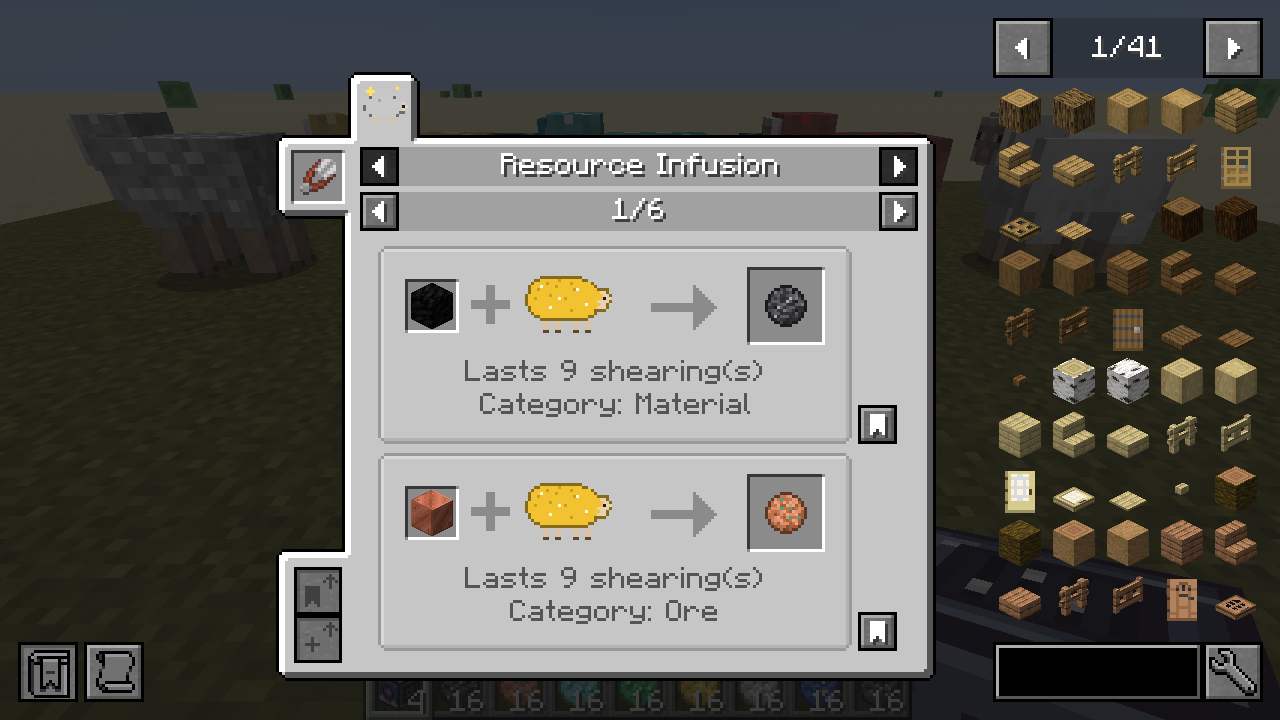
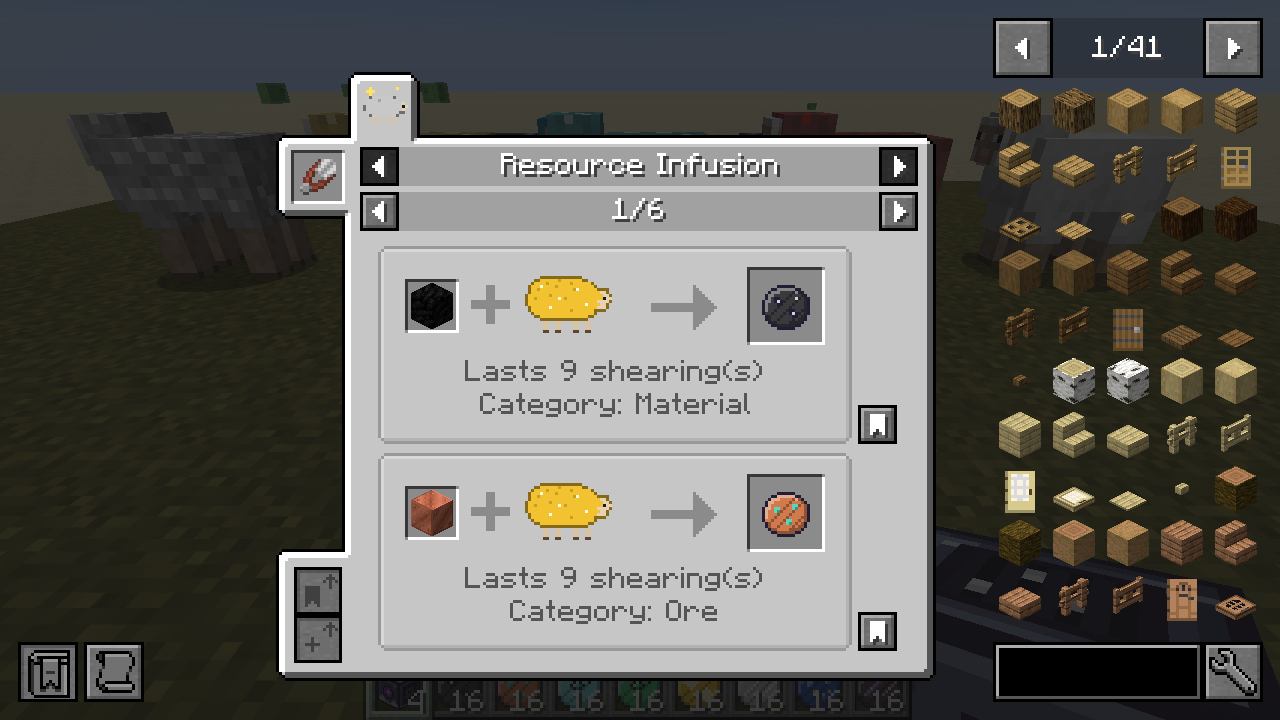
Restyle resource wool items to match the separator's cartoon style
Outlined yarn balls with flat colour, one highlight and one shadow tone,
diagonal yarn wraps and bold per-resource accents; matching fallback
layers for data-pack resources.

Claude-Session: https://claude.ai/code/session_012iurxjF5Am1zCyJTywqAyz

diff --git a/tools/generate_textures.py b/tools/generate_textures.py
@@ -38,161 +38,184 @@ def shade(c, f):
 CLEAR = (0, 0, 0, 0)
 
 # ---------------------------------------------------------------------------
-# Wool item: a fluffy wound skein. Shape map: '.' empty, 'o' outline, 1-4 shade
-# levels (1 = darkest .. 4 = brightest), 'h' highlight. Hand-designed 16x16.
+# Resource wool items (16x16), in the same cartoon style as the Mechanical
+# Separator / Mycelial Power: a thick dark outline, the flat resource colour
+# with one highlight and one shadow tone, yarn-strand arcs, and a chunky
+# per-resource accent stamped on top.
+#   O outline   H highlight   M base colour   S shadow / strand
 # ---------------------------------------------------------------------------
-WOOL_SHAPE = [
-    "................",
-    "......oooo......",
-    "....oo4344oo....",
-    "...o44433444o...",
-    "..o3443344443o..",
-    "..o4332334433o..",
-    ".o344433343343o.",
-    ".o433444332443o.",
-    ".o332343444332o.",
-    ".o244333433432o.",
-    "..o3443323342o..",
-    "..o2334443322o..",
-    "...o22332222o...",
-    "....oo2112oo....",
-    "......oooo......",
-    "................",
-]
+WOOL_OUTLINE = hexc("#231c35")
 
-# Strand lines across the skein (used for "wound yarn" look and resource strands).
-STRANDS = [(4, 4), (5, 5), (6, 6), (7, 7), (8, 8), (9, 9), (10, 10), (11, 11),
-           (6, 3), (7, 4), (8, 5), (9, 6), (10, 7), (11, 8), (12, 9)]
+WOOL_BALL = [
+    "................",
+    ".....OOOOOO.....",
+    "...OOHHHHHHOO...",
+    "..OHHHMMMMSHSO..",
+    ".OHHMMMMMSMMMSO.",
+    ".OHMMMMMSMMMSMSO",
+    "OHHMMMMSMMMSMMSO",
+    "OHMMMMSMMMSMMMSO",
+    "OHMMMSMMMSMMMMSO",
+    "OHMMSMMMSMMMMSSO",
+    "OMMSMMMSMMMMSMSO",
+    ".OSMMMSMMMMSMSO.",
+    ".OSMMSMMMMSMSSO.",
+    "..OSSMMMMSSSSO..",
+    "...OOSSSSSSOO...",
+    ".....OOOOOO.....",
+]
 
 
 def wool_palette(base):
-    """4 shades from dark to light plus outline."""
     return {
-        "o": shade(base, 0.45),
-        "1": shade(base, 0.62),
-        "2": shade(base, 0.78),
-        "3": shade(base, 0.92),
-        "4": mix(base, (255, 255, 255, 255), 0.18),
+        "O": WOOL_OUTLINE,
+        "H": mix(base, (255, 255, 255, 255), 0.38),
+        "M": base,
+        "S": shade(base, 0.68),
     }
 
 
 def draw_wool(base):
     img = Image.new("RGBA", (16, 16), CLEAR)
     pal = wool_palette(base)
-    for y, row in enumerate(WOOL_SHAPE):
+    for y, row in enumerate(WOOL_BALL):
         for x, ch in enumerate(row):
             if ch in pal:
-                c = pal[ch]
-                # Wound-yarn look: diagonal winding lines across the skein.
-                if ch not in "o" and (x + y) % 4 == 0:
-                    c = shade(c, 0.84)
-                elif ch not in "o" and (x - y) % 7 == 0:
-                    c = mix(c, (255, 255, 255, 255), 0.12)
-                img.putpixel((x, y), c)
+                img.putpixel((x, y), pal[ch])
     return img
 
 
 def inside(x, y):
-    return WOOL_SHAPE[y][x] not in ".o"
+    return 0 <= x < 16 and 0 <= y < 16 and WOOL_BALL[y][x] not in ".O"
 
 
 def put(img, x, y, c):
-    if 0 <= x < 16 and 0 <= y < 16 and inside(x, y):
+    if inside(x, y):
         img.putpixel((x, y), c)
 
 
-# Resource definitions for the 12 built-in wool items: base colour + decorator.
-def deco_metal_strands(light, dark):
-    def f(img, rnd):
-        for (x, y) in STRANDS:
-            put(img, x, y, light if (x + y) % 3 else dark)
-        for (x, y) in [(5, 9), (6, 10), (9, 4), (10, 5)]:
-            put(img, x, y, light)
+def stamp(img, ox, oy, rows, pal):
+    """Draws a small character grid at (ox, oy); '.' is skipped, only inside the ball."""
+    for dy, row in enumerate(rows):
+        for dx, ch in enumerate(row):
+            if ch in pal:
+                put(img, ox + dx, oy + dy, pal[ch])
+
+
+WHITE = hexc("#ffffff")
+
+# Chunky accent motifs (A = accent colour, a = accent shadow, G = shine, O = outline)
+GEM = [".O.", "OGO", "OAa", ".O."]
+GEM_BIG = ["..O..", ".OGO.", "OGAaO", ".OaO.", "..O.."]
+STAR = ["..G..", ".GAG.", "GAGAG", ".GAG.", "..G.."]
+DOT = [".A.", "AGA", ".a."]
+CHUNK = ["OO.", "OaO", ".OO"]
+
+
+def deco_strands():
+    """Bright metal threads following the yarn arcs, with glints."""
+    def f(img, pal):
+        for i in range(8):
+            put(img, 10 - i, 3 + i, pal["A"])      # main bright thread
+            put(img, 11 - i, 3 + i, pal["a"])
+        for i in range(6):
+            put(img, 13 - i, 6 + i, pal["A"])      # second thread
+        for (x, y) in [(8, 5), (5, 8), (11, 8), (4, 4)]:
+            put(img, x, y, pal["G"])
     return f
 
 
-def deco_sparkle(spark, glow):
-    def f(img, rnd):
-        for (x, y) in [(5, 5), (10, 4), (11, 9), (6, 10), (8, 7)]:
-            put(img, x, y, spark)
-            for dx, dy in [(1, 0), (-1, 0), (0, 1), (0, -1)]:
-                if rnd.random() < 0.6:
-                    put(img, x + dx, y + dy, glow)
+def deco_sparkles():
+    def f(img, pal):
+        stamp(img, 3, 4, STAR, pal)
+        stamp(img, 8, 8, STAR, pal)
+        put(img, 11, 4, pal["G"])
     return f
 
 
-def deco_crystals(c1, c2, edge):
-    def f(img, rnd):
-        for (x, y) in [(4, 6), (9, 4), (11, 8), (6, 10), (8, 8)]:
-            put(img, x, y, c1)
-            put(img, x + 1, y, c2)
-            put(img, x, y + 1, c2)
-            put(img, x + 1, y + 1, edge)
+def deco_gems(big_at, small_at):
+    def f(img, pal):
+        stamp(img, big_at[0], big_at[1], GEM_BIG, pal)
+        for (x, y) in small_at:
+            stamp(img, x, y, GEM, pal)
     return f
 
 
-def deco_flecks(colors, count, seed):
-    def f(img, rnd):
-        r = random.Random(seed)
-        n = 0
-        while n < count:
-            x, y = r.randint(2, 13), r.randint(2, 12)
-            if inside(x, y):
-                put(img, x, y, colors[n % len(colors)])
-                n += 1
+def deco_dots(positions):
+    def f(img, pal):
+        for (x, y) in positions:
+            stamp(img, x, y, DOT, pal)
     return f
 
 
-def deco_wood(ring, dark):
-    def f(img, rnd):
-        for (x, y) in STRANDS[:8]:
-            put(img, x, y, dark)
-        for (x, y) in [(4, 8), (5, 8), (9, 10), (10, 10), (7, 5), (8, 5)]:
-            put(img, x, y, ring)
+def deco_spots(extra=None):
+    """Oxidisation / speckle spots plus an optional second colour."""
+    def f(img, pal):
+        for (x, y) in [(4, 6), (10, 5), (8, 10)]:
+            stamp(img, x, y, ["AA", "Aa"], pal)
+        if extra:
+            for (x, y) in [(6, 9), (11, 9)]:
+                put(img, x, y, extra)
     return f
 
 
-def deco_stone(dark, light):
-    def f(img, rnd):
-        r = random.Random(42)
-        for _ in range(14):
-            x, y = r.randint(2, 13), r.randint(2, 12)
-            put(img, x, y, dark if r.random() < 0.6 else light)
+def deco_chunks():
+    def f(img, pal):
+        stamp(img, 4, 5, CHUNK, pal)
+        stamp(img, 9, 9, CHUNK, pal)
+        for (x, y) in [(5, 6), (10, 10), (11, 5)]:
+            put(img, x, y, pal["G"])
+    return f
+
+
+def deco_rings():
+    def f(img, pal):
+        for x in range(3, 13):
+            put(img, x, 6, pal["a"])
+            put(img, x, 10, pal["a"])
+        for (x, y) in [(5, 8), (6, 8), (10, 8), (7, 4)]:
+            put(img, x, y, pal["A"])
     return f
 
 
 BUILTIN = {
-    # name: (wool colour, accent colour, decorator)
-    "iron": ("#C8C8C8", "#F4F4F4", deco_metal_strands(hexc("#FFFFFF"), hexc("#8A8A8A"))),
-    "gold": ("#F2C230", "#FFF6A8", deco_sparkle(hexc("#FFFFE0"), hexc("#FFE45C"))),
-    "copper": ("#D27A4E", "#5FD3B5", deco_metal_strands(hexc("#F4A27A"), hexc("#3FA58A"))),
-    "diamond": ("#7FE6E0", "#E8FFFF", deco_crystals(hexc("#D9FFFF"), hexc("#3DCBD0"), hexc("#1F8C93"))),
-    "emerald": ("#3FC46A", "#B9FFC9", deco_crystals(hexc("#B9FFC9"), hexc("#17A346"), hexc("#0A6B2C"))),
-    "redstone": ("#9E1D1D", "#FF3B2B", deco_flecks([hexc("#FF4A3A"), hexc("#FFB0A0"), hexc("#FF2010")], 12, 7)),
-    "lapis": ("#2F55B5", "#9DB8FF", deco_flecks([hexc("#C9D7FF"), hexc("#F2D45C"), hexc("#6F8FE8")], 10, 11)),
-    "coal": ("#3A3A3E", "#8C8C96", deco_flecks([hexc("#1A1A1C"), hexc("#7A7A84"), hexc("#AAAAB4")], 13, 5)),
-    "netherite": ("#4A3E44", "#9B6FB0", deco_metal_strands(hexc("#B58BD0"), hexc("#2A2228"))),
-    "stone": ("#8E8E8E", "#B5B5B5", deco_stone(hexc("#5E5E5E"), hexc("#BDBDBD"))),
-    "wood": ("#A8834F", "#6B4F2A", deco_wood(hexc("#D2B07A"), hexc("#6B4F2A"))),
-    "quartz": ("#EDE6DC", "#FFFFFF", deco_crystals(hexc("#FFFFFF"), hexc("#D8CCBE"), hexc("#B5A898"))),
+    # name: (wool colour, accent colour, decorator). Keep colours in sync with tools/generate_data.py.
+    "iron": ("#C8C8C8", "#F4F4F4", deco_strands()),
+    "gold": ("#F2C230", "#FFF6A8", deco_sparkles()),
+    "copper": ("#D27A4E", "#5FD3B5", deco_spots()),
+    "diamond": ("#7FE6E0", "#4ED8E8", deco_gems((5, 5), [(10, 3)])),
+    "emerald": ("#3FC46A", "#2FE07A", deco_gems((5, 5), [(10, 3)])),
+    "redstone": ("#9E1D1D", "#FF3B2B", deco_dots([(3, 4), (9, 3), (5, 9), (10, 8)])),
+    "lapis": ("#2F55B5", "#9DB8FF", deco_spots(hexc("#F2D45C"))),
+    "coal": ("#3A3A3E", "#8C8C96", deco_chunks()),
+    "netherite": ("#4A3E44", "#B58BD0", deco_strands()),
+    "stone": ("#8E8E8E", "#5E5E5E", deco_chunks()),
+    "wood": ("#A8834F", "#D2B07A", deco_rings()),
+    "quartz": ("#EDE6DC", "#FFFFFF", deco_gems((6, 6), [(10, 3)])),
 }
+
+
+def accent_palette(accent):
+    return {"A": accent, "a": shade(accent, 0.7), "G": mix(accent, WHITE, 0.6), "O": WOOL_OUTLINE}
 
 
 def generate_wool_items():
     for name, (base, accent, deco) in BUILTIN.items():
         img = draw_wool(hexc(base))
-        deco(img, random.Random(sum(map(ord, name))))
+        deco(img, accent_palette(hexc(accent)))
         img.save(out(f"item/{name}_wool.png"))
-    # Fallback (tinted) layers for data-pack resources: greyscale wool + accent flecks.
+    # Fallback layers for data-pack resources. layer0 (tinted with wool_color) is a light-grey ball;
+    # the outline is drawn on layer1 (tinted with accent_color) would recolour it, so the outline stays
+    # on layer0 in near-black, which tinting keeps dark.
     grey = draw_wool(hexc("#E6E6E6"))
-    for (x, y) in STRANDS[::2]:
-        put(grey, x, y, hexc("#FFFFFF"))
+    for y in range(16):
+        for x in range(16):
+            if WOOL_BALL[y][x] == "O":
+                grey.putpixel((x, y), hexc("#2a2a2a"))
     grey.save(out("item/resource_wool_base.png"))
     acc = Image.new("RGBA", (16, 16), CLEAR)
-    for (x, y) in [(5, 5), (10, 4), (11, 9), (6, 10), (8, 7), (4, 8), (12, 6)]:
-        acc.putpixel((x, y), (255, 255, 255, 255))
-    for (x, y) in [(6, 5), (10, 5), (7, 10), (9, 7)]:
-        acc.putpixel((x, y), (200, 200, 200, 255))
+    deco_sparkles()(acc, {"A": hexc("#e6e6e6"), "a": hexc("#a0a0a0"), "G": WHITE, "O": hexc("#3a3a3a")})
+    # stamp() only draws inside the ball shape, which also holds for this transparent layer.
     acc.save(out("item/resource_wool_overlay.png"))
 
 
